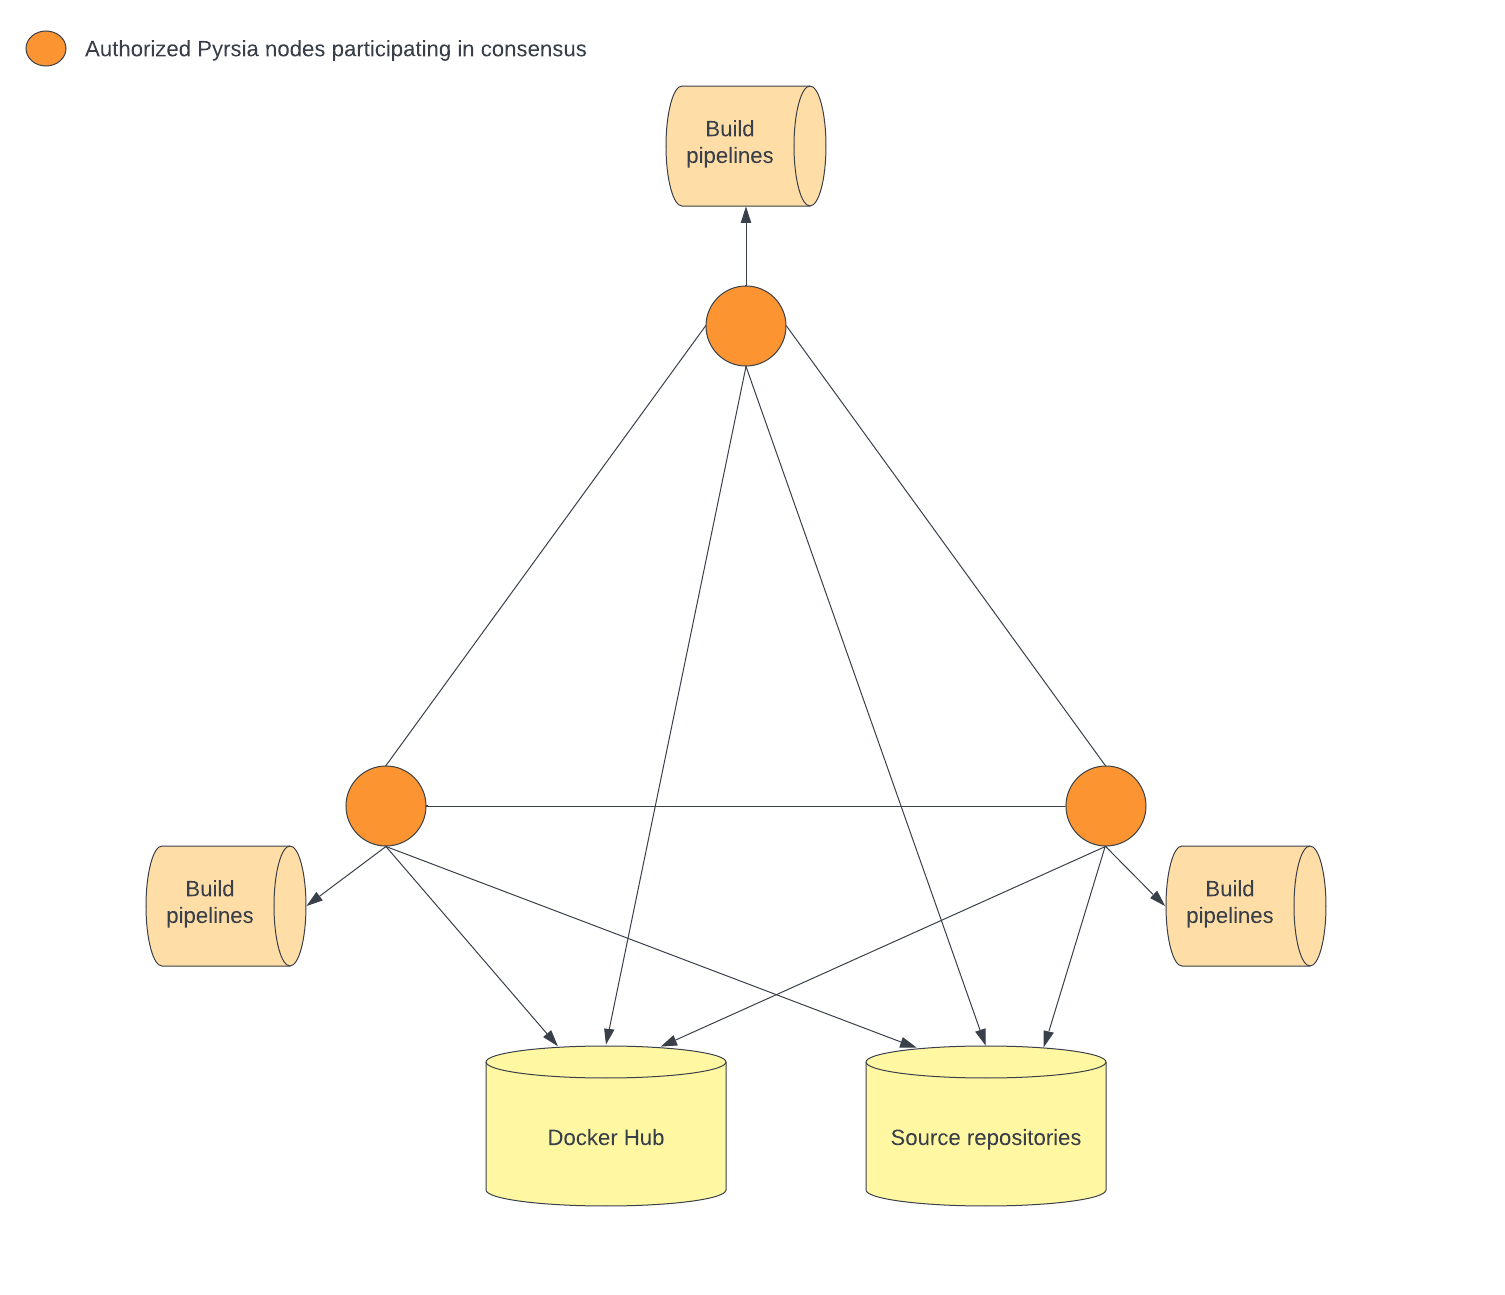
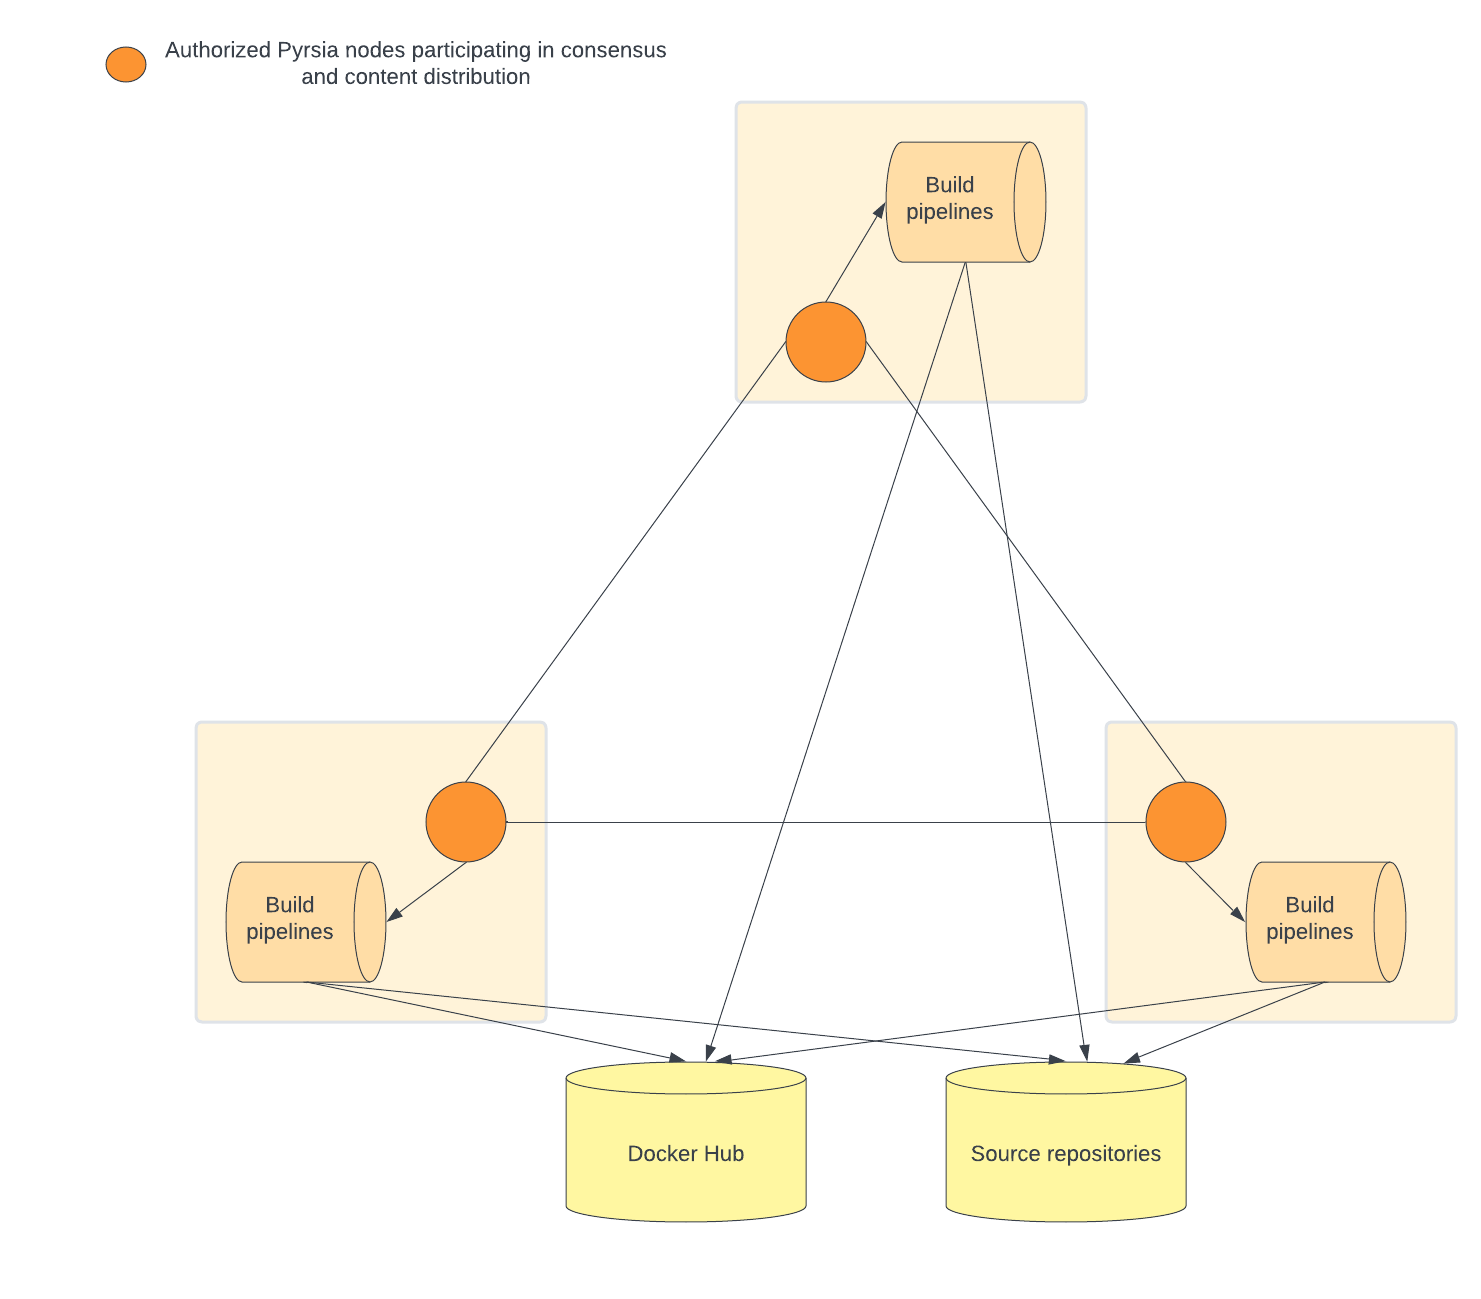
architecture and use cases: remarks after planning meeting

diff --git a/docs/developers/pyrsia-architecture-and-use-cases.md b/docs/developers/pyrsia-architecture-and-use-cases.md
@@ -109,8 +109,18 @@ transaction information for easy access.
 
 ### Blockchain
 
-This component offers an interface to store and retrieve immutable logs,
-and distribute them across all peers.
+This component offers an interface to store and retrieve immutable transaction
+logs, and distribute them across all peers.
+
+Before transactions can be added to the blockchain, consensus needs to be reached
+using a fault-tolerant consensus algorithm, because:
+
+- A majority of (authorized) nodes must be able to agree to the same result
+- A small number of faulty (authorized) nodes must not be able to influence the
+  result
+- A small number of faulty (authorized) nodes must not be able to slow down the
+  system or make it stop working
+
 
 ### Build service
 
@@ -170,13 +180,14 @@ will then invoke a build using a suitable pipeline.
 
   including search on author/dependencies/...
 
-- New authorized nodes can be added to the Pyrsia network. **[CLI]** **[BLOCKCHAIN]**
+- New authorized nodes can be added to the Pyrsia network. **[CLI]** **[TRANSPARENCY_LOG]** **[BLOCKCHAIN]**
 
-  - As an authorized node admin I can add a candidate authorized node **[CLI]**
+  - As an authorized node admin I can add a candidate authorized node
 
-  - The authorized node adds the 'AddNode transaction in the blockchain and waits for consensus **[BLOCKCHAIN]**
-
-  - Authorized nodes consent to 'AddNode' transactions if the respective node was previously marked as authorized **[BLOCKCHAIN]**
+    The authorized marks the new node id as an authorized node 'candidate' and
+    creates an `AddNode` transaction request and waits for consensus.
+    Consensus might not be reached yet, but the authorized node keeps the candidate
+    so a future transaction request from another authorized node might reach consensus.
 
 - As a user I can request the addition of an official Docker Hub image to the Pyrsia network. **[CLI]** **[ARTIFACT_MANAGER]**
 
@@ -186,29 +197,61 @@ will then invoke a build using a suitable pipeline.
 
     - The Pyrsia node accepts " Build from source requests" and as a result starts build pipeline and adds a Transaction request.
 
-- When a Transaction request is received all authorized nodes participate in the consensus mechanism **[BLOCKCHAIN]** **[BUILD_SERVICE]**
+- When a Transaction request is received all authorized nodes participate in the consensus mechanism **[BLOCKCHAIN]**
 
-  Other authorized nodes validate transactions by starting a build using the Build Service
-  and verifying the result. In its simplest form, this check is comparing the hash
-  of the build artifact with the hash in the transaction.
-  More complicated verification will also be necessary for not fully-reproducible
-  builds.
+  Other authorized nodes validate transactions based on the transaction's operation
+  type. Examples of transaction operations:
 
-- TODO Story about semantic verification for non-reproducible builds **[BUILD_SERVICE]**
+    - `AddNode`: to add a new authorized node. see 'AddNode transaction requests are handled'
+    - `RemoveNode`: to add a new authorized node. see 'RemoveNode transaction requests are handled'
+    - `AddArtifact`: to add a new artifact. see 'AddArtifact transaction requests are handled'
+
+  As a result, all nodes must receive new transactions. The authorized nodes store
+  the artifact locally and provide it in the p2p network.
+
+- AddNode transaction requests are handled **[BLOCKCHAIN]**
+  an `AddNode` transaction requests follows this procedure:
+
+  - was the node previously marked as an authorized node candidate?
+  - if yes, the authorized node answers positively in the consensus algorithm
+
+- RemoveNode transaction requests are handled **[BLOCKCHAIN]**
+
+    - was the node previously marked as an authorized node candidate for removal?
+    - if yes, the authorized node answers positively in the consensus algorithm
+
+- AddArtifact transaction requests are handled **[BLOCKCHAIN]**
+  The AddArtifact transaction request triggers a build verification using the
+  Build Service. The response of the Build Service defines the authorized
+  node's answer in the consensus algorithm.
 
 - When consensus is reached, the transaction is committed to the blockchain. **[BLOCKCHAIN]**
 
-  All nodes must receive new transactions. The authorized nodes store the artifact locally and provide it in the p2p network.
+- When a build is started, the Build Service finds a corresponding build pipeline
+  suitable to run the build. **[BUILD_SERVICE]**
 
-- On any Pyrsia node, when a new transaction is received, it is added to the transparency log so it can be used in verification scenarios **[TRANSPARENCY_LOG]**
+- When a build result is returned from a pipeline, the build service verifies
+  the generated build (part 1: for reproducible builds) **[BUILD_SERVICE]**
 
-- As a Pyrsia node, I make sure the transparency log is up-to-date when I boot. **[TRANSPARENCY_LOG]**
+- When a build result is returned from a pipeline, the build service verifies
+  the generated build by doing a semantic analysis (part 2: for non-reproducible
+  builds) **[BUILD_SERVICE]**
 
-- As a Pyrsia node, I make sure the transparency log is kept up-to-date while running. **[TRANSPARENCY_LOG]**
+- On any Pyrsia node, when a new transaction is received, it is added to the
+  transparency log so it can be used in verification scenarios **[TRANSPARENCY_LOG]**
 
-- As a Pyrsia node, I can download an artifact from multiple other nodes simultaneously. **[P2P]**
+- As a Pyrsia node, I make sure the transparency log is up-to-date when I
+  boot. **[TRANSPARENCY_LOG]**
 
-- As a user I can measure the download via Pyrsia is faster than from a central repository. (benchmark) **[P2P]**
+- As a Pyrsia node, I make sure the transparency log is kept up-to-date while
+  running. **[TRANSPARENCY_LOG]**
 
-- As a user I can use Docker Desktop to install Pyrsia (Docker Desktop Pyrsia) **[INSTALLATION]**
+- As a Pyrsia node, I can download an artifact from multiple other nodes
+  simultaneously. **[P2P]**
+
+- As a user I can measure the download via Pyrsia is faster than from a central
+  repository. (benchmark) **[P2P]**
+
+- As a user I can use Docker Desktop to install Pyrsia (Docker Desktop Pyrsia)
+  **[INSTALLATION]**
 
